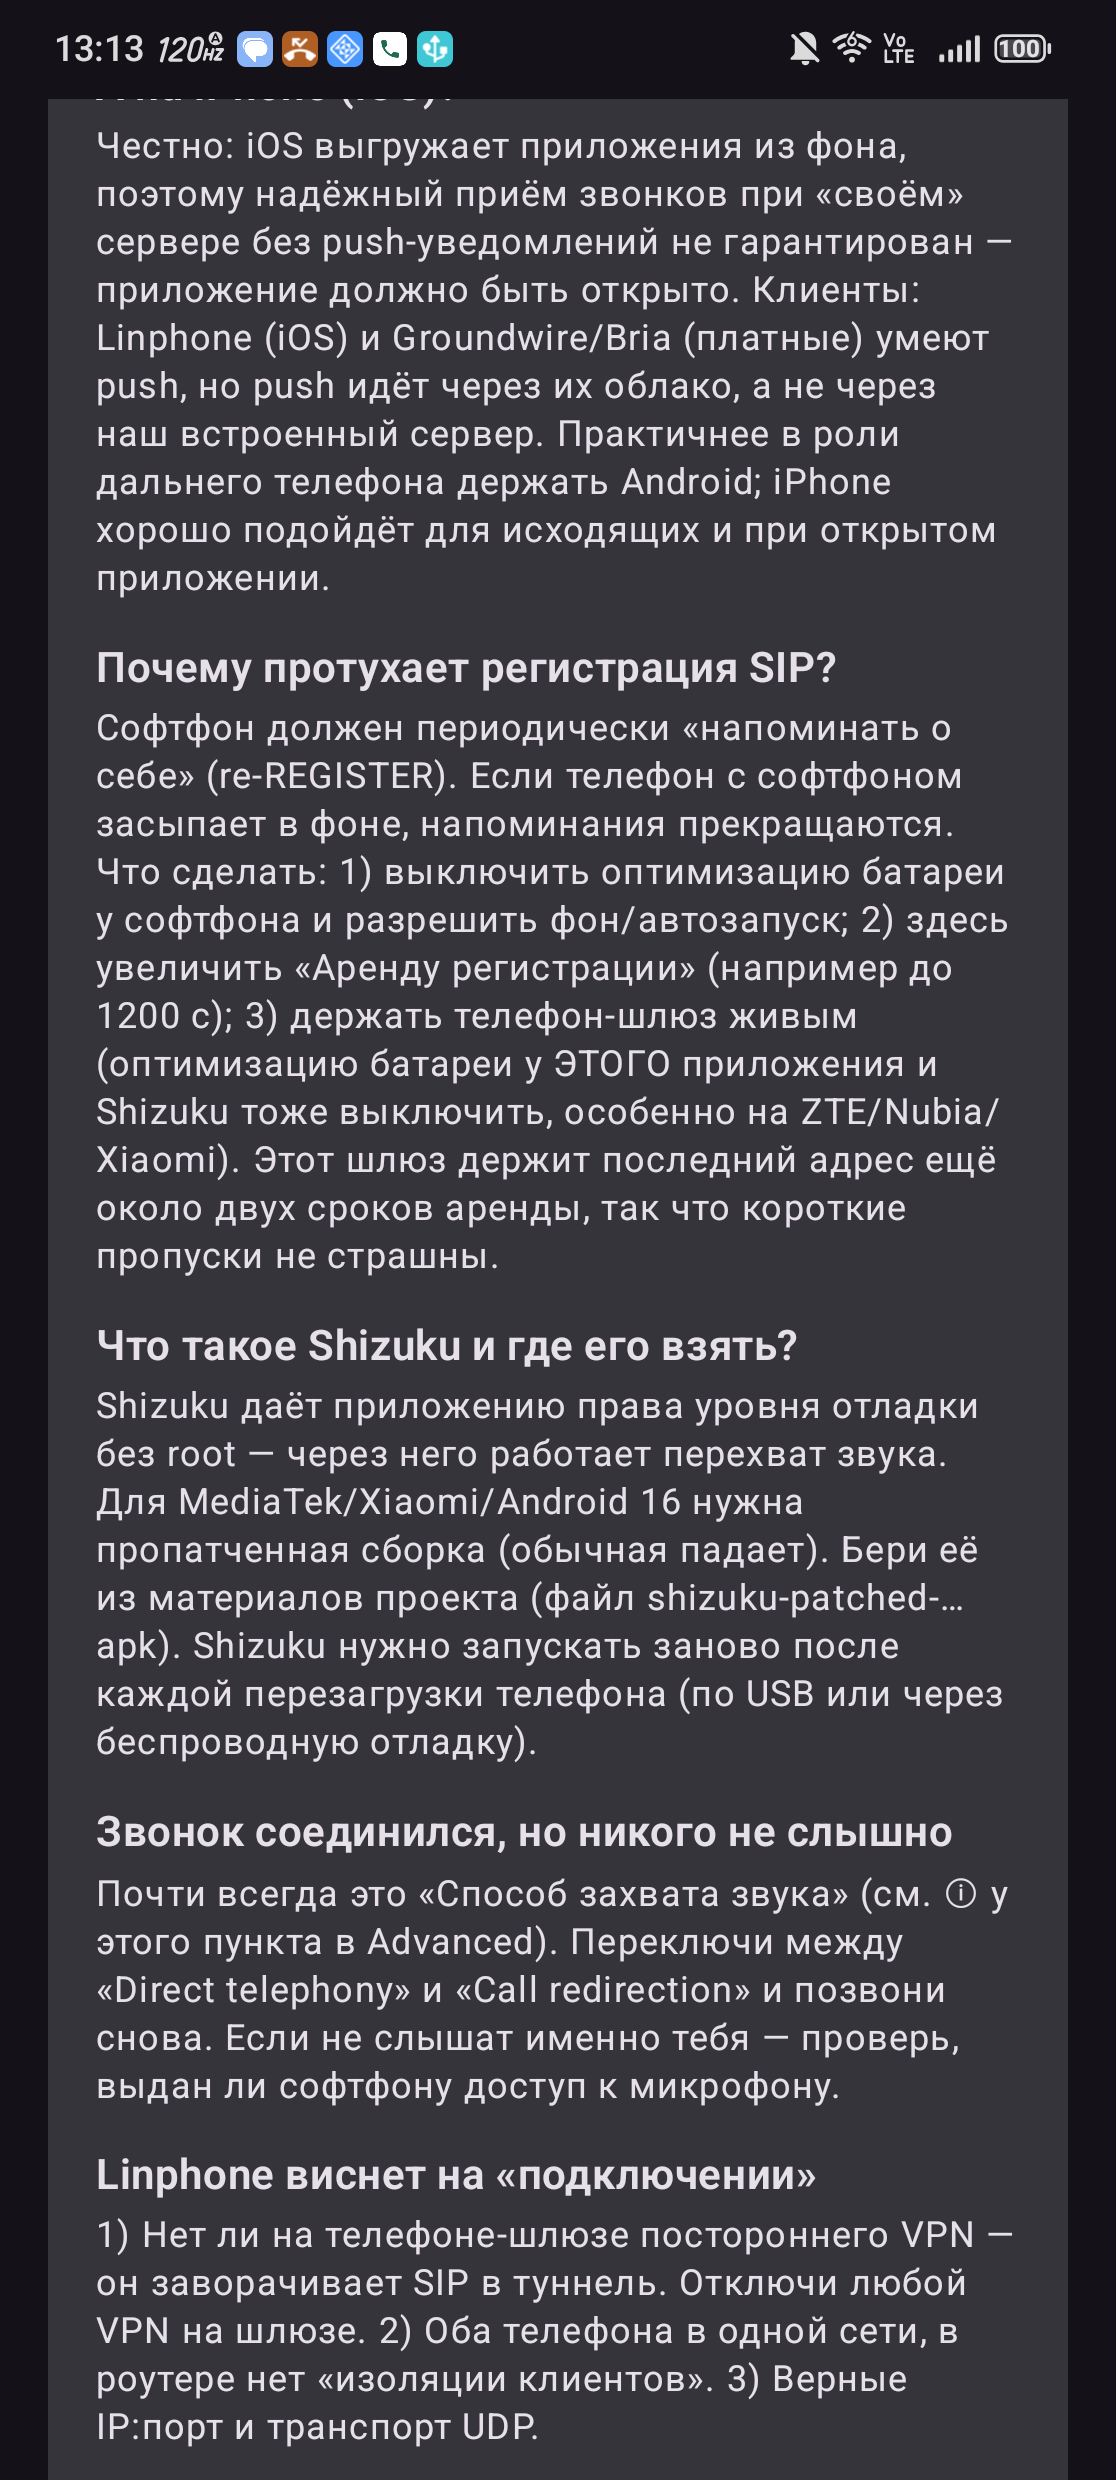
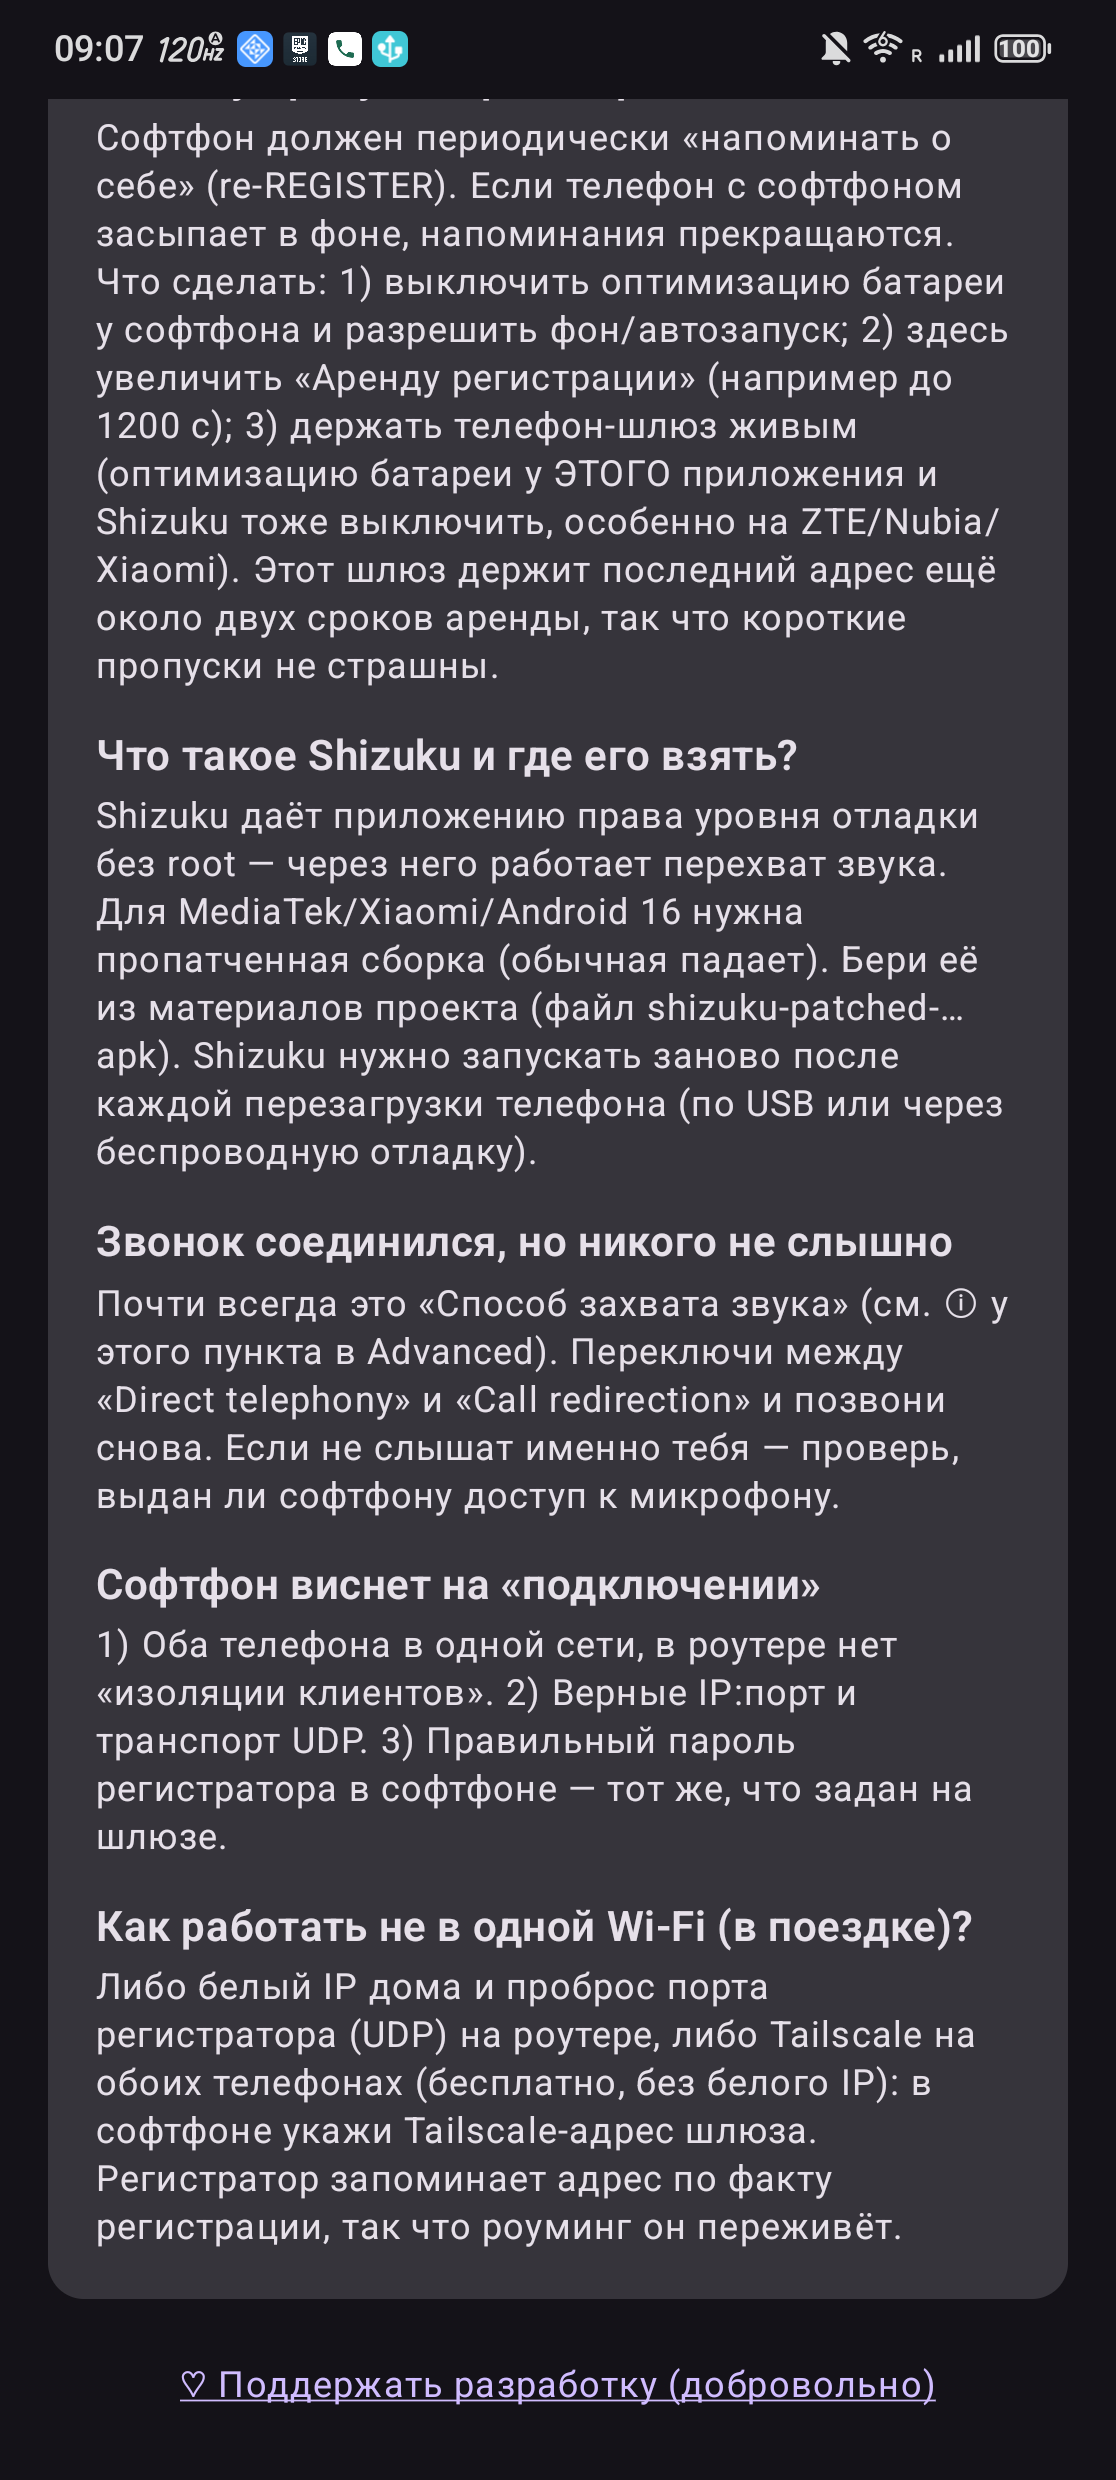
FAQ: убран WireGuard/VPN-след, Linphone заменён на baresip
В встроенной справке приложения:
- пункт "Linphone виснет на подключении -> посторонний VPN заворачивает
  SIP в туннель" заменён на "Софтфон виснет на подключении" с проверкой
  сети/портов и пароля регистратора (без упоминания VPN/туннеля);
- рекомендация клиента и подсказки режима сервера переведены с Linphone
  на baresip (page-mode SMS); iOS-пункт больше не называет Linphone;
- Tailscale как опция "без белого IP" сохранён (не требует проброса).

Перерисован docs/images/ru-04-faq.png под новый текст.

Changed region(s): [[0.0305, 0.0, 0.9749, 1.0]]

diff --git a/app/src/main/kotlin/io/github/sparkcyf/voicesipagent/app/Ui.kt b/app/src/main/kotlin/io/github/sparkcyf/voicesipagent/app/Ui.kt
@@ -95,8 +95,8 @@ fun helpText(key: String, lang: UiLang): Pair<String, String>? {
         )
         "server_mode" -> p(
             "Режим «устройство в себе»", "Device-in-itself mode",
-            "Включён (рекомендуется): этот телефон сам работает SIP-сервером. Твой софтфон (Linphone и т.п.) регистрируется прямо на него — внешний сервер/АТС не нужны.\n\nВыключен: шлюз сам подключается к внешней SIP-АТС — тогда заполни поля PBX host / user / password ниже.",
-            "On (recommended): this phone is its own SIP server. Your softphone (Linphone etc.) registers straight to it — no external server/PBX needed.\n\nOff: the gateway registers to an external SIP PBX — then fill in PBX host / user / password below.",
+            "Включён (рекомендуется): этот телефон сам работает SIP-сервером. Твой софтфон (например baresip) регистрируется прямо на него — внешний сервер/АТС не нужны.\n\nВыключен: шлюз сам подключается к внешней SIP-АТС — тогда заполни поля PBX host / user / password ниже.",
+            "On (recommended): this phone is its own SIP server. Your softphone (e.g. baresip) registers straight to it — no external server/PBX needed.\n\nOff: the gateway registers to an external SIP PBX — then fill in PBX host / user / password below.",
         )
         "local_port" -> p(
             "Порт регистратора", "Local SIP port",
@@ -195,15 +195,15 @@ fun faqEntries(lang: UiLang): List<Pair<String, String>> {
         ),
         e(
             "Какой софтфон ставить на ДАЛЬНИЙ телефон (Android)?",
-            "Рекомендуем Linphone — бесплатный, открытый, работает в фоне. Где взять: Google Play, F-Droid или linphone.org. После установки: выключи оптимизацию батареи для Linphone и разреши фоновую работу/автозапуск, иначе регистрация будет слетать. Альтернатива: Zoiper.\n\nНастройка аккаунта: Username — любой (например s23), Password — любой, Domain — «<IP телефона-шлюза>:<порт регистратора>», Transport — UDP. И обязательно выдай Linphone доступ к микрофону.",
+            "Рекомендуем baresip — бесплатный, открытый, работает в фоне и умеет page-mode SMS. Где взять: F-Droid (пакет com.tutpro.baresip). После установки: выключи оптимизацию батареи для baresip и разреши фоновую работу/автозапуск, иначе регистрация будет слетать.\n\nНастройка аккаунта: меню ⋮ → «Профили» → поле «SIP URI или Новый аккаунт» → «sip:s23@<IP телефона-шлюза>:<порт регистратора>» → «+». Порт в адресе обязателен. В редакторе аккаунта: «Пароль аутентификации» — тот же пароль, что на шлюзе (пусто только для локальной сети), транспорт UDP, включи тумблер «Регистрация». И обязательно выдай baresip доступ к микрофону.",
             "Which softphone for the FIELD phone (Android)?",
-            "We recommend Linphone — free, open-source, runs in the background. Where to get it: Google Play, F-Droid, or linphone.org. After installing: turn off battery optimization for Linphone and allow background/autostart, otherwise the registration will keep dropping. Alternative: Zoiper.\n\nAccount setup: Username — anything (e.g. s23), Password — anything, Domain — «<gateway phone IP>:<registrar port>», Transport — UDP. And do grant Linphone microphone access.",
+            "We recommend baresip — free, open-source, runs in the background, and does page-mode SMS. Where to get it: F-Droid (package com.tutpro.baresip). After installing: turn off battery optimization for baresip and allow background/autostart, otherwise the registration will keep dropping.\n\nAccount setup: menu ⋮ → «Accounts» → «SIP URI or New account» field → «sip:s23@<gateway phone IP>:<registrar port>» → «+». The port in the address is required. In the account editor: «Auth password» — the same password set on the gateway (empty only for a local network), transport UDP, enable the «Registration» toggle. And do grant baresip microphone access.",
         ),
         e(
             "А на iPhone (iOS)?",
-            "Честно: iOS выгружает приложения из фона, поэтому надёжный приём звонков при «своём» сервере без push-уведомлений не гарантирован — приложение должно быть открыто. Клиенты: Linphone (iOS) и Groundwire/Bria (платные) умеют push, но push идёт через их облако, а не через наш встроенный сервер. Практичнее в роли дальнего телефона держать Android; iPhone хорошо подойдёт для исходящих и при открытом приложении.",
+            "Честно: iOS выгружает приложения из фона, поэтому надёжный приём звонков при «своём» сервере без push-уведомлений не гарантирован — приложение должно быть открыто. Push на iOS умеют платные клиенты (Groundwire, Bria), но их push идёт через их облако, а не через наш встроенный сервер. Практичнее в роли дальнего телефона держать Android (baresip); iPhone хорошо подойдёт для исходящих и при открытом приложении.",
             "What about iPhone (iOS)?",
-            "Honestly: iOS suspends backgrounded apps, so reliable incoming-call delivery with a self-hosted, push-less server is not guaranteed — the app must be in the foreground. Clients: Linphone (iOS) and Groundwire/Bria (paid) do support push, but their push goes through their cloud, not our built-in server. It's more practical to use an Android phone as the field device; an iPhone works well for outbound and while the app is open.",
+            "Honestly: iOS suspends backgrounded apps, so reliable incoming-call delivery with a self-hosted, push-less server is not guaranteed — the app must be in the foreground. Paid iOS clients (Groundwire, Bria) do support push, but their push goes through their cloud, not our built-in server. It's more practical to use an Android phone as the field device (baresip); an iPhone works well for outbound and while the app is open.",
         ),
         e(
             "Почему протухает регистрация SIP?",
@@ -224,10 +224,10 @@ fun faqEntries(lang: UiLang): List<Pair<String, String>> {
             "Almost always the «Cellular audio method» (see the ⓘ on that item under Advanced). Switch between «Direct telephony» and «Call redirection» and call again. If only you can't be heard — check that the softphone has microphone access.",
         ),
         e(
-            "Linphone виснет на «подключении»",
-            "1) Нет ли на телефоне-шлюзе постороннего VPN — он заворачивает SIP в туннель. Отключи любой VPN на шлюзе. 2) Оба телефона в одной сети, в роутере нет «изоляции клиентов». 3) Верные IP:порт и транспорт UDP.",
-            "Linphone hangs on «connecting»",
-            "1) Check for a stray VPN on the gateway phone — it tunnels the SIP traffic away. Disable any VPN on the gateway. 2) Both phones on the same network, no «client isolation» on the router. 3) Correct IP:port and UDP transport.",
+            "Софтфон виснет на «подключении»",
+            "1) Оба телефона в одной сети, в роутере нет «изоляции клиентов». 2) Верные IP:порт и транспорт UDP. 3) Правильный пароль регистратора в софтфоне — тот же, что задан на шлюзе.",
+            "Softphone hangs on «connecting»",
+            "1) Both phones on the same network, no «client isolation» on the router. 2) Correct IP:port and UDP transport. 3) Correct registrar password in the softphone — the same one set on the gateway.",
         ),
         e(
             "Как работать не в одной Wi-Fi (в поездке)?",

diff --git a/app/src/main/kotlin/io/github/sparkcyf/voicesipagent/app/MainActivity.kt b/app/src/main/kotlin/io/github/sparkcyf/voicesipagent/app/MainActivity.kt
@@ -282,8 +282,8 @@ private fun SettingsSection(rt: GatewayRuntime) {
     Section(t("Настройки", "Settings")) {
         // Core mode: this phone is its own SIP server, or it registers to an external PBX.
         Toggle(t("Режим «устройство в себе» (встроенный SIP-сервер)", "Device-in-itself mode (built-in SIP server)"), serverMode, { serverMode = it }, info = "server_mode") {
-            if (serverMode) t("Этот телефон сам — SIP-сервер; софтфон (Linphone) регистрируется прямо на него. Внешний сервер не нужен, поля PBX ниже необязательны.",
-                "This phone hosts the SIP registrar; your softphone (e.g. Linphone) registers straight to it. No external PBX is needed, so the PBX fields below are optional.")
+            if (serverMode) t("Этот телефон сам — SIP-сервер; софтфон (baresip) регистрируется прямо на него. Внешний сервер не нужен, поля PBX ниже необязательны.",
+                "This phone hosts the SIP registrar; your softphone (e.g. baresip) registers straight to it. No external PBX is needed, so the PBX fields below are optional.")
             else t("Выкл: шлюз регистрируется на внешнюю SIP-АТС. Заполни PBX host, user и password ниже.",
                 "Off: this gateway registers to an external PBX / SIP server. Fill in PBX host, user and password below.")
         }

diff --git a/app/src/main/kotlin/io/github/sparkcyf/voicesipagent/app/SettingsStore.kt b/app/src/main/kotlin/io/github/sparkcyf/voicesipagent/app/SettingsStore.kt
@@ -50,7 +50,7 @@ data class GatewaySettings(
     /** Which SIP implementation backs the PBX side. */
     val sipStack: SipStack = SipStack.BUILTIN,
     /**
-     * Device-in-itself mode: this phone hosts the SIP registrar. A softphone (e.g. Linphone
+     * Device-in-itself mode: this phone hosts the SIP registrar. A softphone (e.g. baresip
      * in the field) registers directly to it; no external PBX/server is involved. When on,
      * [server]/[username]/[password] are not required.
      */
